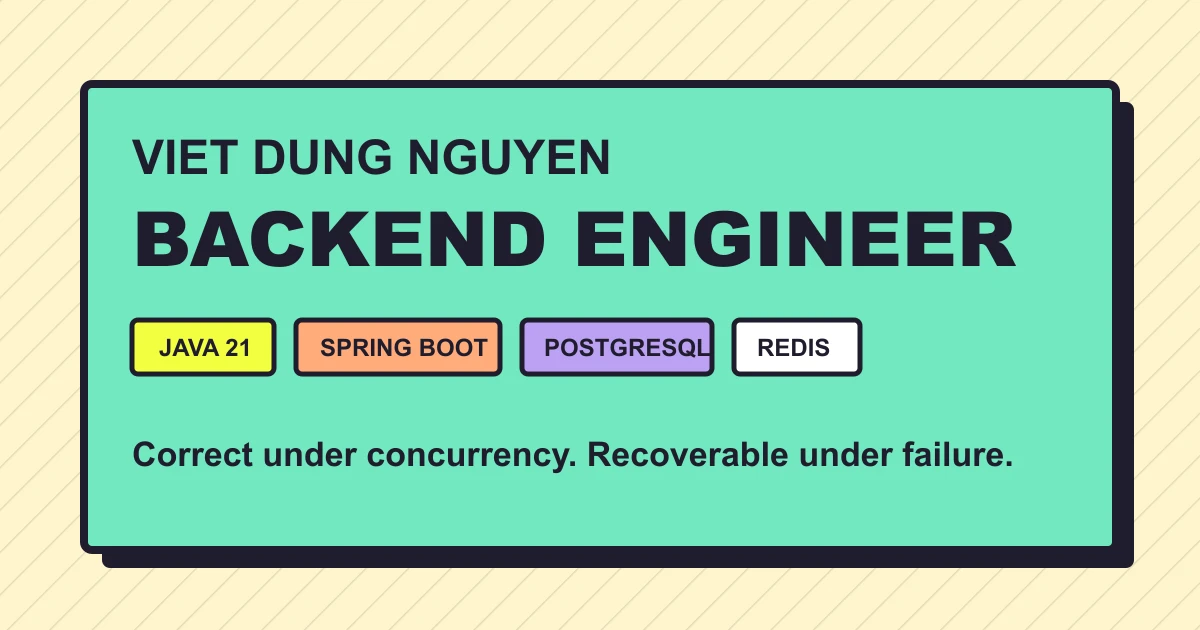
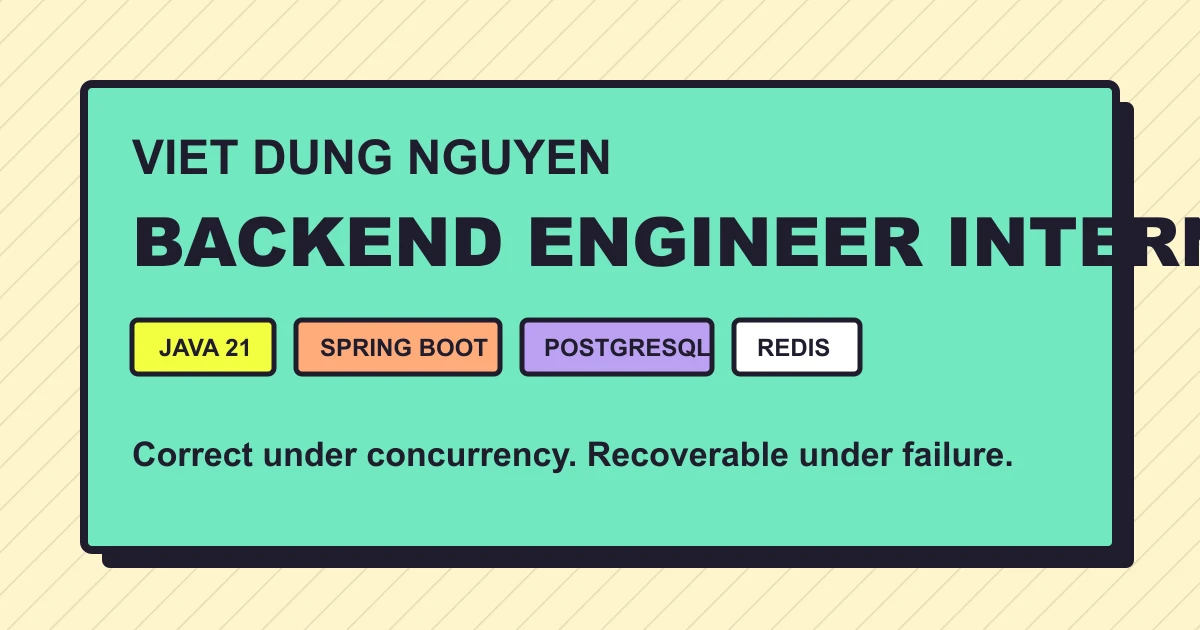
fix portfolio theme and intern positioning

Changed region(s): [[0.0925, 0.3317, 1.0, 0.4222]]

diff --git a/src/components/Contact.tsx b/src/components/Contact.tsx
@@ -11,16 +11,16 @@ export function Contact() {
     <Section id="contact" eyebrow="Contact" title="Let's talk about backend systems.">
       <div className="grid gap-6 lg:grid-cols-[1.15fr_0.85fr] lg:gap-8">
         <div className="border-brutal bg-peach p-5 shadow-brutalLg sm:p-7 md:p-9">
-          <p className="brutal-label inline-block bg-lemon">Open to backend roles</p>
+          <p className="brutal-label inline-block bg-lemon">Open to backend internships</p>
           <h3 className="mt-6 max-w-2xl text-2xl font-black leading-tight sm:text-3xl md:text-4xl">
             Need someone who cares about what happens when requests race, fail, or get retried?
           </h3>
           <p className="mt-5 max-w-2xl text-base font-bold leading-7 text-[#17151f]/75 sm:text-lg">
-            I am interested in Backend Engineer opportunities where correctness, maintainable Java services, and clear
+            I am interested in Backend Engineer internship opportunities where correctness, maintainable Java services, and clear
             operational behavior matter.
           </p>
           <motion.a
-            href={`mailto:${profile.email}?subject=Backend%20Engineer%20opportunity`}
+            href={`mailto:${profile.email}?subject=Backend%20Engineer%20Intern%20opportunity`}
             className="btn-brutal mt-7 inline-flex bg-purple text-white"
             whileHover={{ y: -4, rotate: -1 }}
             whileTap={{ scale: 0.94 }}

diff --git a/src/lib/data.ts b/src/lib/data.ts
@@ -2,7 +2,7 @@ import { Database, Github, Linkedin, Mail, Repeat2, ShieldCheck } from 'lucide-r
 
 export const profile = {
   name: 'Viet Dung Nguyen',
-  role: 'Backend Engineer',
+  role: 'Backend Engineer Intern',
   headline: 'I build reliable Java services around the business rules that cannot be allowed to fail.',
   location: 'Ho Chi Minh City, Vietnam',
   email: 'vietdungnguyen2005@gmail.com',
@@ -23,24 +23,16 @@ export const navItems = [
 export const skillTags = [
   'Java 21',
   'Spring Boot',
+  'REST APIs',
   'PostgreSQL',
   'Redis',
-  'REST APIs',
-  'Spring Security',
-  'Spring Batch',
+  'SQL',
   'JPA / JDBC',
+  'Spring Security',
   'Flyway',
   'Maven',
   'JUnit 5',
-  'Testcontainers',
-  'Resilience4j',
-  'Transactions',
-  'Concurrency Control',
-  'Idempotency',
-  'Database Locking',
-  'Outbox Pattern',
-  'Integration Testing',
-  'API Security'
+  'Testcontainers'
 ];
 
 export const highlights = [
@@ -131,7 +123,7 @@ export const projects = [
 
 export const experiences = [
   {
-    title: 'Frontend Developer Intern',
+    title: 'Full-stack Developer Intern',
     company: 'Phu Quoc Times',
     location: 'Phu Quoc, Vietnam',
     period: 'July 2026 – Present',

diff --git a/src/lib/data.test.ts b/src/lib/data.test.ts
@@ -3,11 +3,11 @@ import { join } from 'node:path';
 
 import { describe, expect, it } from 'vitest';
 
-import { profile, projects, skillTags } from './data';
+import { experiences, profile, projects, skillTags } from './data';
 
 describe('portfolio positioning', () => {
   it('positions Viet Dung as a backend engineer', () => {
-    expect(profile.role).toBe('Backend Engineer');
+    expect(profile.role).toBe('Backend Engineer Intern');
   });
 
   it('keeps the visible skill set focused on backend engineering', () => {
@@ -33,5 +33,16 @@ describe('portfolio positioning', () => {
     for (const project of projects) {
       expect(existsSync(join(process.cwd(), 'public', project.image))).toBe(true);
     }
+  });
+
+  it('describes the internship as full-stack work', () => {
+    expect(experiences[0].title).toBe('Full-stack Developer Intern');
+  });
+
+  it('keeps the intern skill summary concise and evidence-based', () => {
+    expect(skillTags).toHaveLength(12);
+    expect(skillTags).toEqual(
+      expect.arrayContaining(['Java 21', 'Spring Boot', 'REST APIs', 'PostgreSQL', 'JUnit 5'])
+    );
   });
 });

diff --git a/src/app/layout.tsx b/src/app/layout.tsx
@@ -4,9 +4,9 @@ import '@/app/globals.css';
 import { ThemeProvider } from '@/components/ThemeProvider';
 import { profile } from '@/lib/data';
 
-const title = `${profile.name} | Backend Engineer`;
+const title = `${profile.name} | Backend Engineer Intern`;
 const description =
-  'Backend Engineer portfolio by Viet Dung Nguyen, featuring Java, Spring Boot, PostgreSQL, Redis, concurrency control, legacy modernization, and resilient payment workflows.';
+  'Backend Engineer Intern portfolio by Viet Dung Nguyen, featuring Java, Spring Boot, PostgreSQL, Redis, concurrency control, legacy modernization, and resilient payment workflows.';
 
 export const metadata: Metadata = {
   metadataBase: new URL('https://viet-dung-portfolio.pages.dev'),
@@ -17,6 +17,7 @@ export const metadata: Metadata = {
   creator: profile.name,
   keywords: [
     'Backend Engineer',
+    'Backend Engineer Intern',
     'Java Developer',
     'Java 21',
     'Spring Boot',

diff --git a/src/app/theme.test.ts b/src/app/theme.test.ts
@@ -1,0 +1,11 @@
+import { readFileSync } from 'node:fs';
+
+import { describe, expect, it } from 'vitest';
+
+describe('theme surface colors', () => {
+  it('pairs the theme page background with the matching foreground color', () => {
+    const css = readFileSync(new URL('./globals.css', import.meta.url), 'utf8');
+
+    expect(css).toMatch(/\.bg-page\s*{[\s\S]*?color:\s*var\(--ink\)/);
+  });
+});

diff --git a/src/components/Hero.tsx b/src/components/Hero.tsx
@@ -27,7 +27,7 @@ export function Hero() {
             transition={{ duration: 0.35 }}
           >
             <Sparkles size={18} aria-hidden="true" />
-            Viet Dung Nguyen · Backend Engineer
+            Viet Dung Nguyen · Backend Engineer Intern
           </motion.p>
           <motion.h1
             id="hero-title"

diff --git a/src/app/globals.css b/src/app/globals.css
@@ -90,6 +90,7 @@ textarea {
 
 .bg-page {
   background-color: var(--page);
+  color: var(--ink);
 }
 
 .bg-ink {

diff --git a/README.md b/README.md
@@ -1,4 +1,4 @@
-# Viet Dung Nguyen — Backend Engineer Portfolio
+# Viet Dung Nguyen — Backend Engineer Intern Portfolio
 
 This portfolio presents three backend engineering case studies built with Java 21, Spring Boot, PostgreSQL, and Redis. The interface is a statically exported Next.js site; the engineering focus is transaction correctness, legacy modernization, and failure containment.
 
